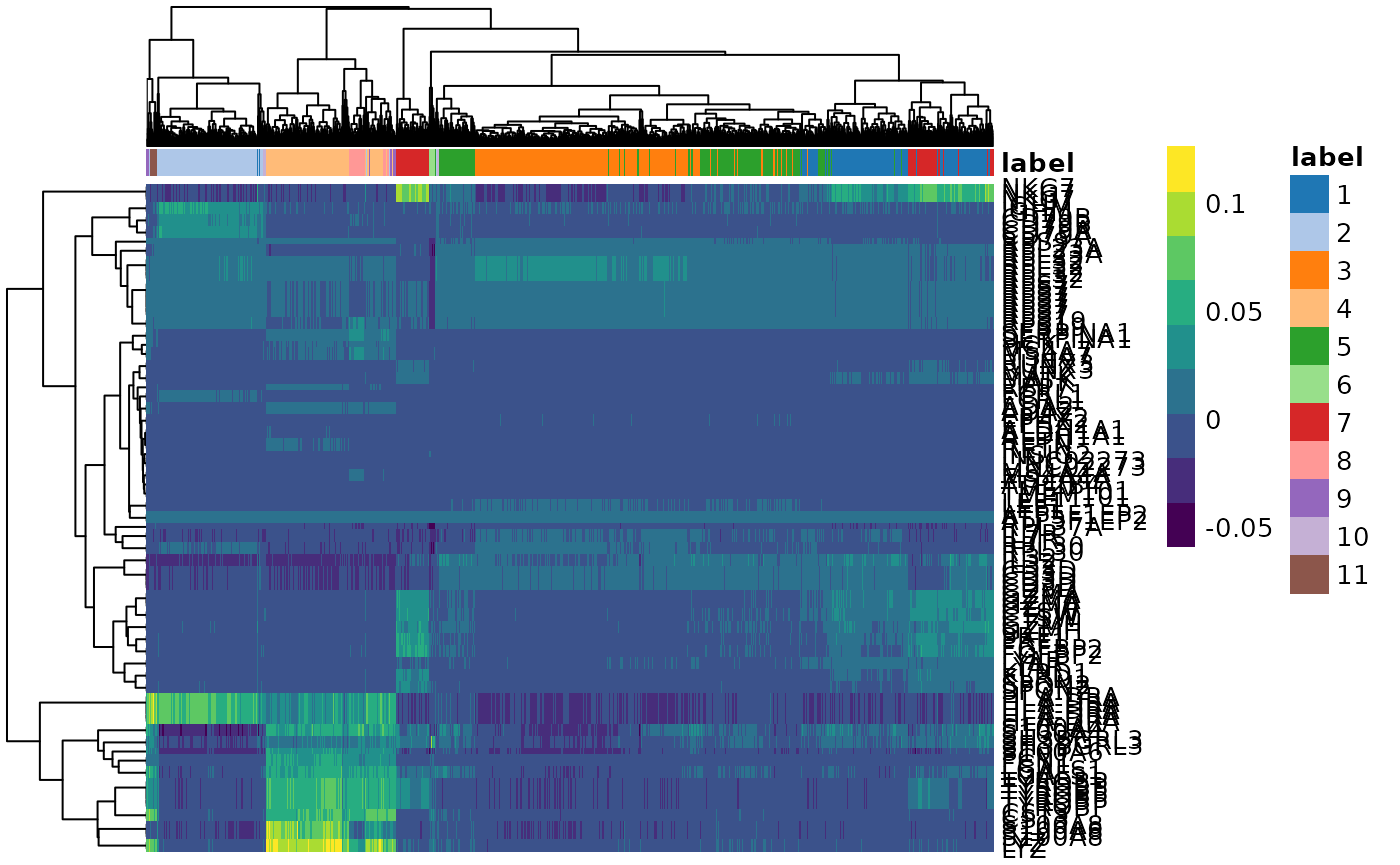
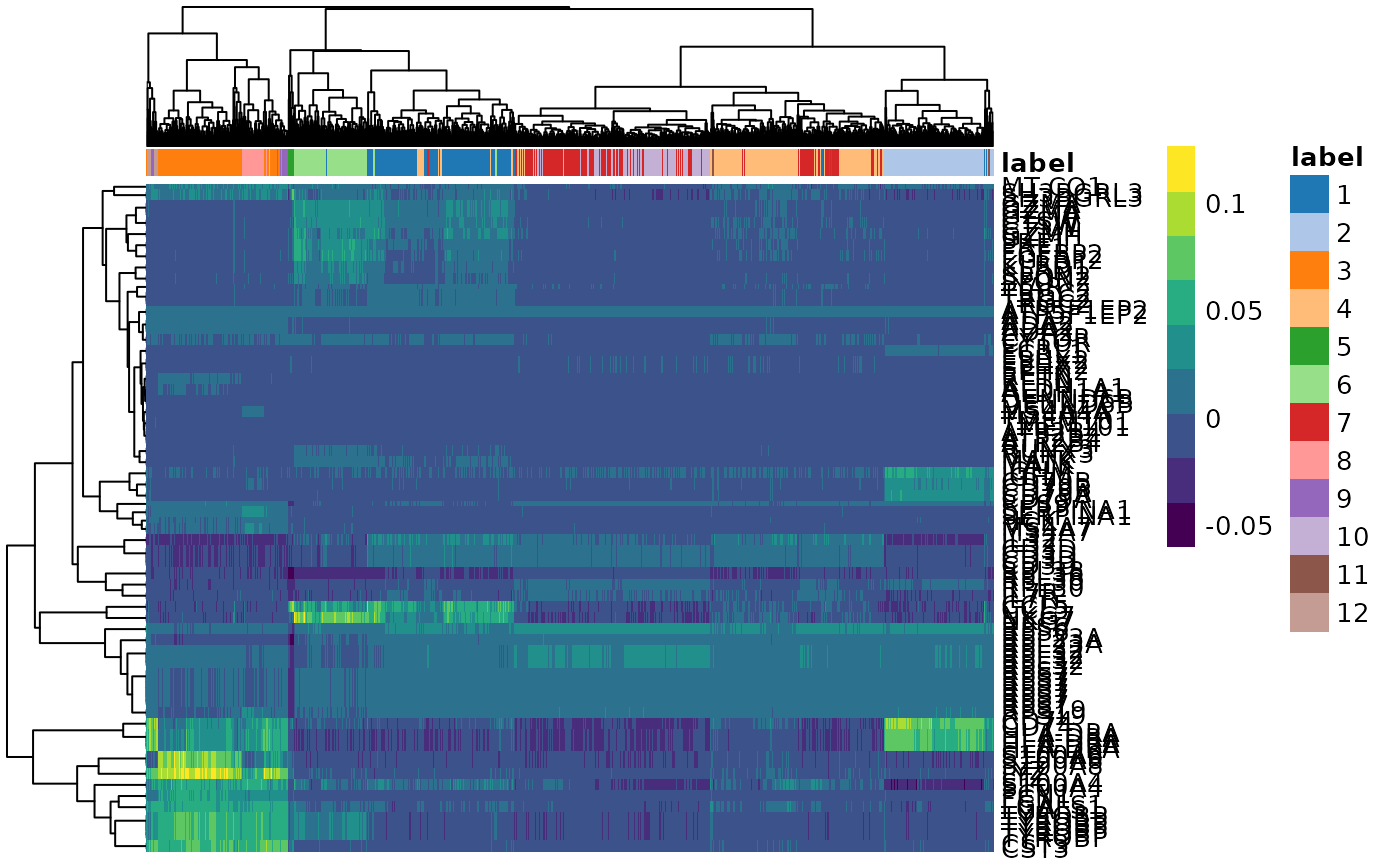
Deploying to gh-pages from  @ 865dd12ef0f45db82b8e6e16e277201bee6e0b59 🚀

diff --git a/articles/tidytranscriptomics.html b/articles/tidytranscriptomics.html
@@ -1259,35 +1259,36 @@
 <span class="co">#&gt; [90m# Transcripts=51958 | Assays=reconstructed[39m</span>
 <span class="co">#&gt;    cell       label batch corrected1 corrected2 corrected3 corrected4 corrected5</span>
 <span class="co">#&gt;    &lt;chr&gt;      &lt;fct&gt; &lt;int&gt;      &lt;dbl&gt;      &lt;dbl&gt;      &lt;dbl&gt;      &lt;dbl&gt;      &lt;dbl&gt;</span>
-<span class="co">#&gt;  1 CCAGTCACA… 4         1   -0.0645     -0.334      0.0725    -0.0560    0.0739 </span>
-<span class="co">#&gt;  2 ATGAGCACA… 3         1   -0.178       0.0166     0.122     -0.122    -0.0233 </span>
-<span class="co">#&gt;  3 TATGAATGG… 1         1   -0.0600     -0.0355    -0.126     -0.293    -0.0128 </span>
-<span class="co">#&gt;  4 CATATAGAC… 11        1   -0.0761     -0.282      0.121     -0.0546    0.00292</span>
-<span class="co">#&gt;  5 GAGGCAGAC… 1         1   -0.0755     -0.0423    -0.0976    -0.259    -0.0248 </span>
-<span class="co">#&gt;  6 AGCTGCCTT… 5         1   -0.117      -0.0242     0.0729    -0.159    -0.0170 </span>
-<span class="co">#&gt;  7 TGATTAGAT… 2         1   -0.146      -0.0752     0.143     -0.0488   -0.0914 </span>
-<span class="co">#&gt;  8 ACGAAGCTC… 2         1   -0.119      -0.108      0.127     -0.0505   -0.0624 </span>
-<span class="co">#&gt;  9 CGGCATCTT… 4         1   -0.00944    -0.407      0.0465    -0.0803    0.0523 </span>
-<span class="co">#&gt; 10 ATAGCGTGC… 4         1   -0.0562     -0.367      0.105     -0.0589    0.0610 </span>
+<span class="co">#&gt;  1 CCAGTCACA… 3         1    0.0645      0.334     -0.0725    -0.0560   -0.0739 </span>
+<span class="co">#&gt;  2 ATGAGCACA… 10        1    0.178      -0.0166    -0.122     -0.122     0.0233 </span>
+<span class="co">#&gt;  3 TATGAATGG… 6         1    0.0600      0.0356     0.126     -0.293     0.0128 </span>
+<span class="co">#&gt;  4 CATATAGAC… 12        1    0.0761      0.282     -0.121     -0.0546   -0.00290</span>
+<span class="co">#&gt;  5 GAGGCAGAC… 1         1    0.0755      0.0423     0.0976    -0.259     0.0248 </span>
+<span class="co">#&gt;  6 AGCTGCCTT… 4         1    0.117       0.0242    -0.0729    -0.159     0.0170 </span>
+<span class="co">#&gt;  7 TGATTAGAT… 2         1    0.146       0.0752    -0.143     -0.0488    0.0915 </span>
+<span class="co">#&gt;  8 ACGAAGCTC… 2         1    0.119       0.108     -0.127     -0.0505    0.0624 </span>
+<span class="co">#&gt;  9 CGGCATCTT… 3         1    0.00942     0.407     -0.0465    -0.0803   -0.0523 </span>
+<span class="co">#&gt; 10 ATAGCGTGC… 3         1    0.0562      0.367     -0.105     -0.0589   -0.0610 </span>
 <span class="co">#&gt; # … with 2,889 more rows</span></code></pre></div>
 <p>Thanks to tidySingleCellExperiment we can interrogate the object with tidyverse commands and use <code>count</code> to count the number of cells in each cluster.</p>
 <div class="sourceCode" id="cb51"><pre class="downlit sourceCode r">
 <code class="sourceCode R"><span class="va">pbmc</span> <span class="op">%&gt;%</span> <span class="fu"><a href="https://rdrr.io/pkg/tidySingleCellExperiment/man/count.html">count</a></span><span class="op">(</span><span class="va">label</span><span class="op">)</span>
 <span class="co">#&gt; tidySingleCellExperiment says: A data frame is returned for independent data analysis.</span>
-<span class="co">#&gt; # A tibble: 11 x 2</span>
+<span class="co">#&gt; # A tibble: 12 x 2</span>
 <span class="co">#&gt;    label     n</span>
 <span class="co">#&gt;    &lt;fct&gt; &lt;int&gt;</span>
-<span class="co">#&gt;  1 1       502</span>
+<span class="co">#&gt;  1 1       470</span>
 <span class="co">#&gt;  2 2       367</span>
-<span class="co">#&gt;  3 3       781</span>
-<span class="co">#&gt;  4 4       339</span>
-<span class="co">#&gt;  5 5       498</span>
-<span class="co">#&gt;  6 6        21</span>
-<span class="co">#&gt;  7 7       236</span>
+<span class="co">#&gt;  3 3       339</span>
+<span class="co">#&gt;  4 4       500</span>
+<span class="co">#&gt;  5 5        21</span>
+<span class="co">#&gt;  6 6       256</span>
+<span class="co">#&gt;  7 7       466</span>
 <span class="co">#&gt;  8 8        74</span>
 <span class="co">#&gt;  9 9        41</span>
-<span class="co">#&gt; 10 10       14</span>
-<span class="co">#&gt; 11 11       26</span></code></pre></div>
+<span class="co">#&gt; 10 10      325</span>
+<span class="co">#&gt; 11 11       14</span>
+<span class="co">#&gt; 12 12       26</span></code></pre></div>
 </div>
 <div id="reduce-dimensions" class="section level2">
 <h2 class="hasAnchor">
@@ -1368,20 +1369,21 @@
   <span class="fu"><a href="https://rdrr.io/pkg/tidySingleCellExperiment/man/dplyr-methods.html">select</a></span><span class="op">(</span><span class="va">label</span>, <span class="va">first.labels</span><span class="op">)</span>
 
 <span class="va">cell_type</span>
-<span class="co">#&gt; # A tibble: 11 x 2</span>
+<span class="co">#&gt; # A tibble: 12 x 2</span>
 <span class="co">#&gt;    label first.labels   </span>
 <span class="co">#&gt;    &lt;chr&gt; &lt;chr&gt;          </span>
 <span class="co">#&gt;  1 1     NK cells       </span>
 <span class="co">#&gt;  2 2     B-cells        </span>
-<span class="co">#&gt;  3 3     Skeletal muscle</span>
-<span class="co">#&gt;  4 4     Monocytes      </span>
-<span class="co">#&gt;  5 5     Fibroblasts    </span>
-<span class="co">#&gt;  6 6     Smooth muscle  </span>
-<span class="co">#&gt;  7 7     NK cells       </span>
+<span class="co">#&gt;  3 3     Monocytes      </span>
+<span class="co">#&gt;  4 4     Fibroblasts    </span>
+<span class="co">#&gt;  5 5     Smooth muscle  </span>
+<span class="co">#&gt;  6 6     NK cells       </span>
+<span class="co">#&gt;  7 7     Skeletal muscle</span>
 <span class="co">#&gt;  8 8     Neutrophils    </span>
 <span class="co">#&gt;  9 9     Macrophages    </span>
-<span class="co">#&gt; 10 10    B-cells        </span>
-<span class="co">#&gt; 11 11    Monocytes</span></code></pre></div>
+<span class="co">#&gt; 10 10    Skeletal muscle</span>
+<span class="co">#&gt; 11 11    B-cells        </span>
+<span class="co">#&gt; 12 12    Monocytes</span></code></pre></div>
 <p>We join the cell type information to our pbmc data.</p>
 <div class="sourceCode" id="cb56"><pre class="downlit sourceCode r">
 <code class="sourceCode R"><span class="co"># Join cell type info</span>
@@ -1395,36 +1397,37 @@
 <span class="co">#&gt; [90m# Transcripts=51958 | Assays=reconstructed[39m</span>
 <span class="co">#&gt;    cell  first.labels batch label corrected1 corrected2 corrected3 corrected4</span>
 <span class="co">#&gt;    &lt;chr&gt; &lt;chr&gt;        &lt;int&gt; &lt;chr&gt;      &lt;dbl&gt;      &lt;dbl&gt;      &lt;dbl&gt;      &lt;dbl&gt;</span>
-<span class="co">#&gt;  1 CCAG… Monocytes        1 4       -0.0645     -0.334      0.0725    -0.0560</span>
-<span class="co">#&gt;  2 ATGA… Skeletal mu…     1 3       -0.178       0.0166     0.122     -0.122 </span>
-<span class="co">#&gt;  3 TATG… NK cells         1 1       -0.0600     -0.0355    -0.126     -0.293 </span>
-<span class="co">#&gt;  4 CATA… Monocytes        1 11      -0.0761     -0.282      0.121     -0.0546</span>
-<span class="co">#&gt;  5 GAGG… NK cells         1 1       -0.0755     -0.0423    -0.0976    -0.259 </span>
-<span class="co">#&gt;  6 AGCT… Fibroblasts      1 5       -0.117      -0.0242     0.0729    -0.159 </span>
-<span class="co">#&gt;  7 TGAT… B-cells          1 2       -0.146      -0.0752     0.143     -0.0488</span>
-<span class="co">#&gt;  8 ACGA… B-cells          1 2       -0.119      -0.108      0.127     -0.0505</span>
-<span class="co">#&gt;  9 CGGC… Monocytes        1 4       -0.00944    -0.407      0.0465    -0.0803</span>
-<span class="co">#&gt; 10 ATAG… Monocytes        1 4       -0.0562     -0.367      0.105     -0.0589</span>
+<span class="co">#&gt;  1 CCAG… Monocytes        1 3        0.0645      0.334     -0.0725    -0.0560</span>
+<span class="co">#&gt;  2 ATGA… Skeletal mu…     1 10       0.178      -0.0166    -0.122     -0.122 </span>
+<span class="co">#&gt;  3 TATG… NK cells         1 6        0.0600      0.0356     0.126     -0.293 </span>
+<span class="co">#&gt;  4 CATA… Monocytes        1 12       0.0761      0.282     -0.121     -0.0546</span>
+<span class="co">#&gt;  5 GAGG… NK cells         1 1        0.0755      0.0423     0.0976    -0.259 </span>
+<span class="co">#&gt;  6 AGCT… Fibroblasts      1 4        0.117       0.0242    -0.0729    -0.159 </span>
+<span class="co">#&gt;  7 TGAT… B-cells          1 2        0.146       0.0752    -0.143     -0.0488</span>
+<span class="co">#&gt;  8 ACGA… B-cells          1 2        0.119       0.108     -0.127     -0.0505</span>
+<span class="co">#&gt;  9 CGGC… Monocytes        1 3        0.00942     0.407     -0.0465    -0.0803</span>
+<span class="co">#&gt; 10 ATAG… Monocytes        1 3        0.0562      0.367     -0.105     -0.0589</span>
 <span class="co">#&gt; # … with 2,889 more rows, and 4 more variables: corrected5 &lt;dbl&gt;, UMAP1 &lt;dbl&gt;,</span>
 <span class="co">#&gt; #   UMAP2 &lt;dbl&gt;, UMAP3 &lt;dbl&gt;</span></code></pre></div>
 <p>We can easily summarise the results. For example, we can see how cell type classification overlaps with cluster classification.</p>
 <div class="sourceCode" id="cb57"><pre class="downlit sourceCode r">
 <code class="sourceCode R"><span class="va">pbmc</span> <span class="op">%&gt;%</span> <span class="fu"><a href="https://rdrr.io/pkg/tidySingleCellExperiment/man/count.html">count</a></span><span class="op">(</span><span class="va">label</span>, <span class="va">first.labels</span><span class="op">)</span>
 <span class="co">#&gt; tidySingleCellExperiment says: A data frame is returned for independent data analysis.</span>
-<span class="co">#&gt; # A tibble: 11 x 3</span>
+<span class="co">#&gt; # A tibble: 12 x 3</span>
 <span class="co">#&gt;    label first.labels        n</span>
 <span class="co">#&gt;    &lt;chr&gt; &lt;chr&gt;           &lt;int&gt;</span>
-<span class="co">#&gt;  1 1     NK cells          502</span>
-<span class="co">#&gt;  2 10    B-cells            14</span>
-<span class="co">#&gt;  3 11    Monocytes          26</span>
-<span class="co">#&gt;  4 2     B-cells           367</span>
-<span class="co">#&gt;  5 3     Skeletal muscle   781</span>
-<span class="co">#&gt;  6 4     Monocytes         339</span>
-<span class="co">#&gt;  7 5     Fibroblasts       498</span>
-<span class="co">#&gt;  8 6     Smooth muscle      21</span>
-<span class="co">#&gt;  9 7     NK cells          236</span>
-<span class="co">#&gt; 10 8     Neutrophils        74</span>
-<span class="co">#&gt; 11 9     Macrophages        41</span></code></pre></div>
+<span class="co">#&gt;  1 1     NK cells          470</span>
+<span class="co">#&gt;  2 10    Skeletal muscle   325</span>
+<span class="co">#&gt;  3 11    B-cells            14</span>
+<span class="co">#&gt;  4 12    Monocytes          26</span>
+<span class="co">#&gt;  5 2     B-cells           367</span>
+<span class="co">#&gt;  6 3     Monocytes         339</span>
+<span class="co">#&gt;  7 4     Fibroblasts       500</span>
+<span class="co">#&gt;  8 5     Smooth muscle      21</span>
+<span class="co">#&gt;  9 6     NK cells          256</span>
+<span class="co">#&gt; 10 7     Skeletal muscle   466</span>
+<span class="co">#&gt; 11 8     Neutrophils        74</span>
+<span class="co">#&gt; 12 9     Macrophages        41</span></code></pre></div>
 </div>
 </div>
 <div id="pseudobulk-analyses" class="section level2">

diff --git a/index.html b/index.html
@@ -81,7 +81,7 @@
 <div class="page-header"><h1 class="hasAnchor">
 <a href="#introduction-to-tidy-transcriptomics" class="anchor"></a>Introduction to Tidy Transcriptomics</h1></div>
 <p float="left">
-<img height="100" alt="rladiestunis2021" src="https://github.com/Bioconductor/BiocStickers/blob/71e4c2cb323c441daa0f2f9d48d3b8bbb564a3e2/events/rladiestunis2021/rladiestunis2021.png?raw=true"><img height="100" alt="tidybulk" src="https://github.com/Bioconductor/BiocStickers/blob/master/tidybulk/tidybulk.png?raw=true"></p>
+<img height="100" alt="rladiestunis2021" src="reference/figures/rladies_tunis_logo.jpg"><img height="100" alt="tidybulk" src="https://github.com/Bioconductor/BiocStickers/blob/master/tidybulk/tidybulk.png?raw=true"></p>
 <div id="instructor-names-and-contact-information" class="section level2">
 <h2 class="hasAnchor">
 <a href="#instructor-names-and-contact-information" class="anchor"></a>Instructor names and contact information</h2>
